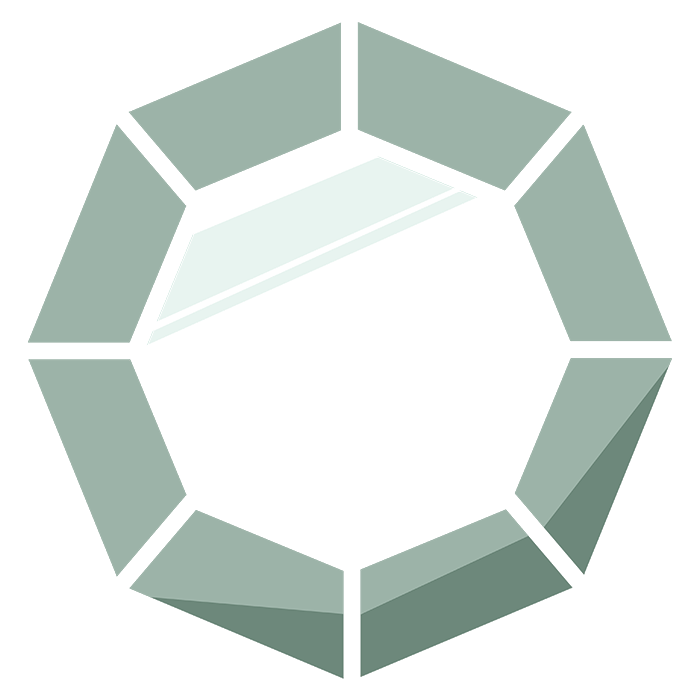
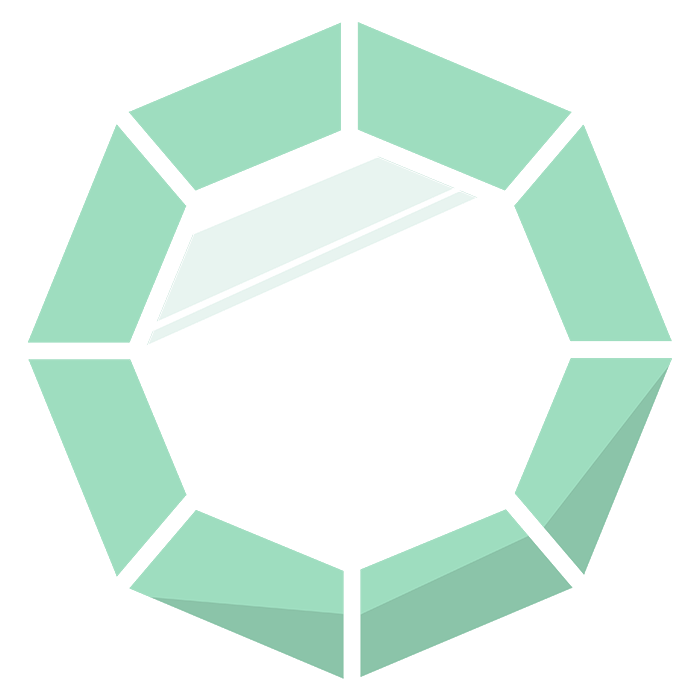
rupee DM

diff --git a/gmmgenerator/index.html b/gmmgenerator/index.html
@@ -19,7 +19,7 @@
   <div id="wrapper">
   <div class="row">
       <div class="large-2 large-offset-2 columns">
-          <a href="http://weheart.github.io"><img src="img/logo.png" class="logo"/></a>
+          <a href="http://weheart.github.io"><img src="img/rupee.png" class="logo"/></a>
       </div>
       <div class="large-8 columns">
           <div>
